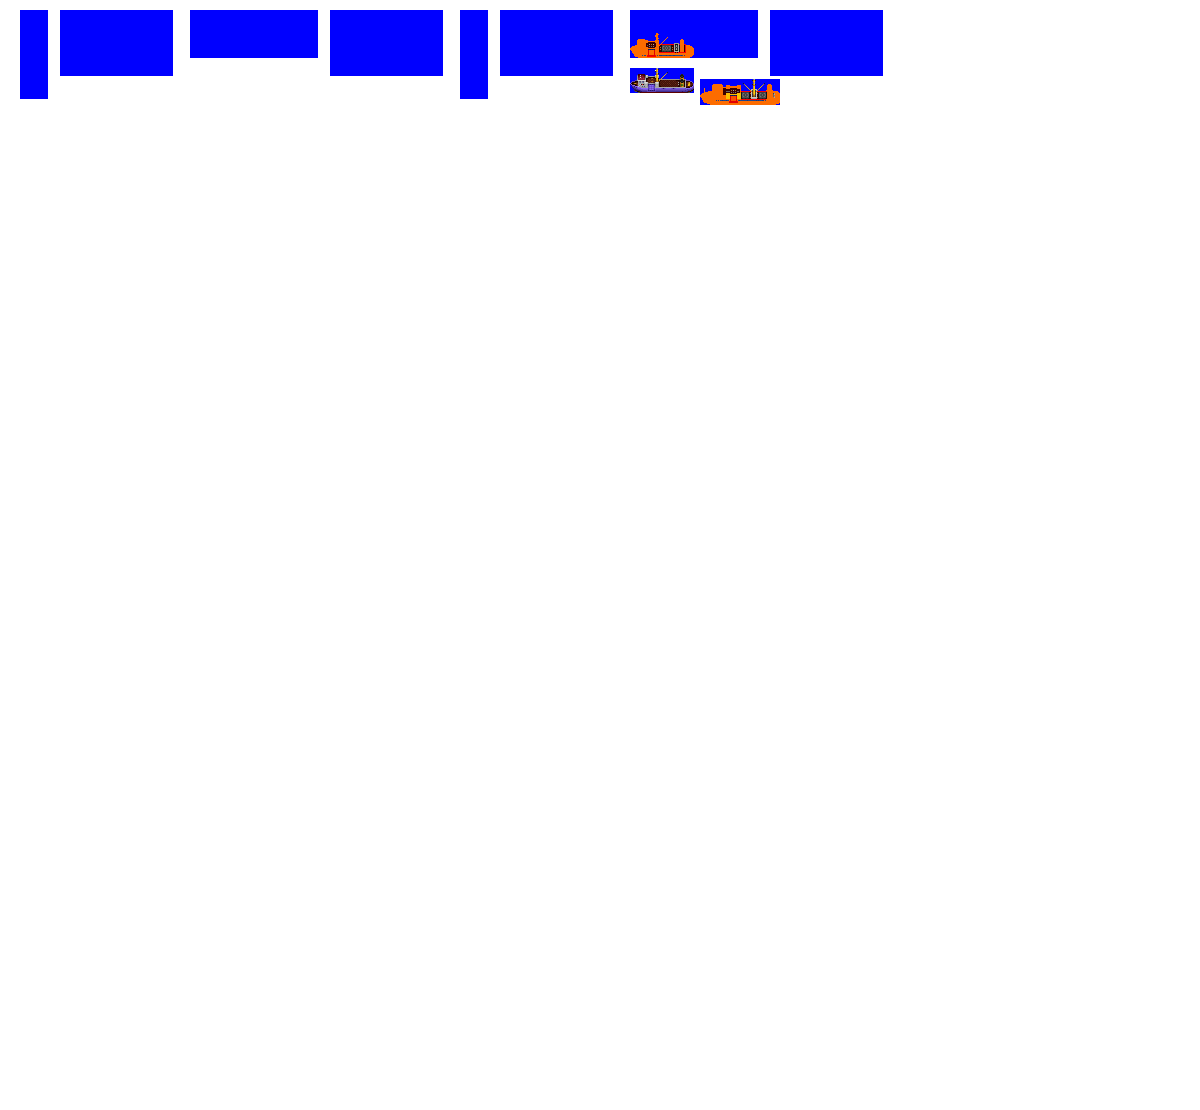
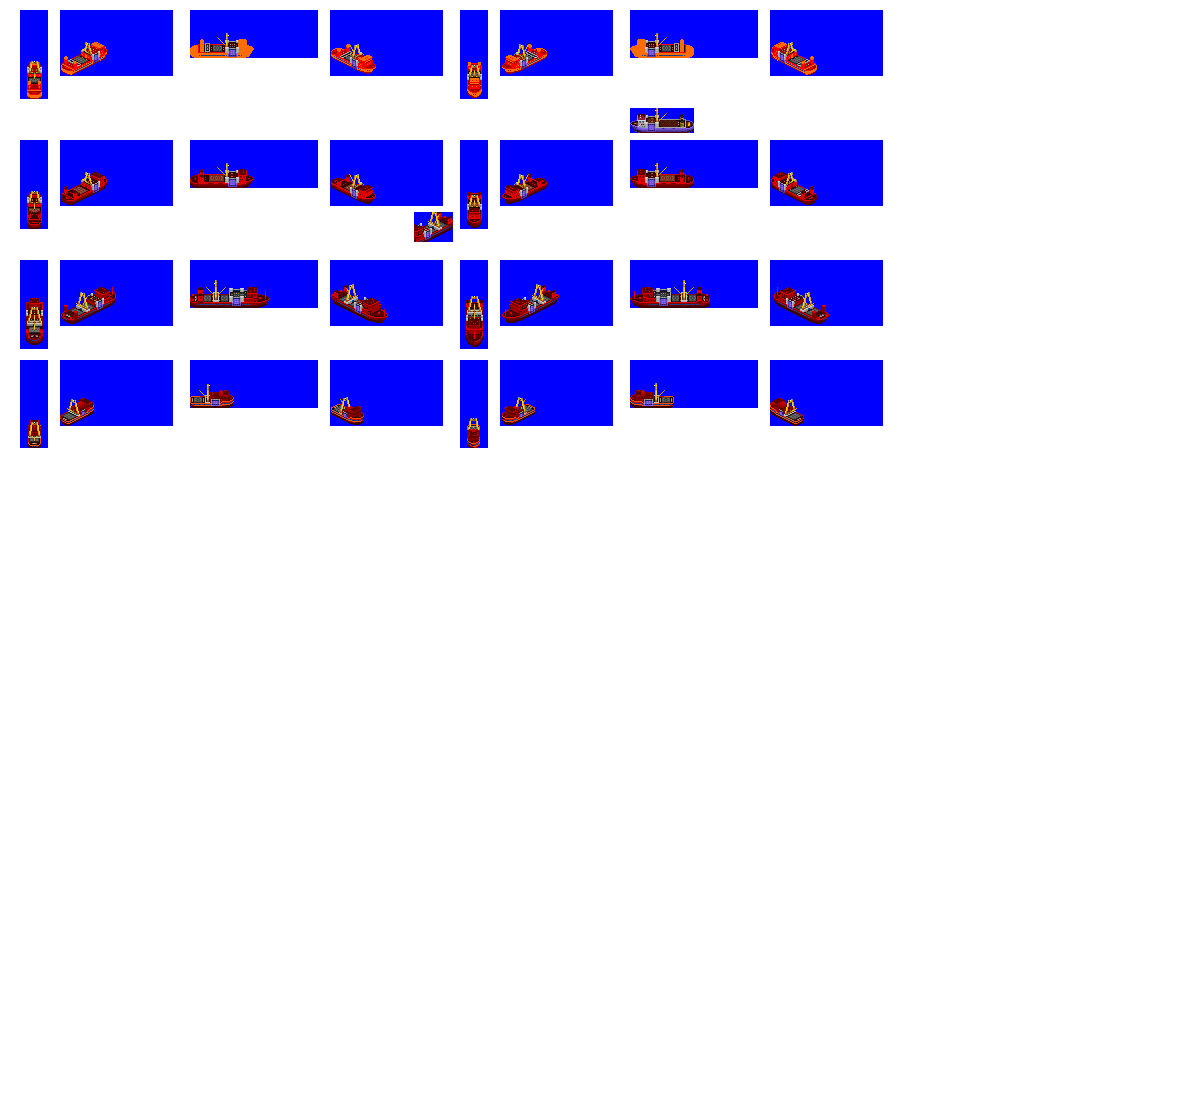
Change: sprites complete for Langara reefer

diff --git a/src/vehicles/reefers.py b/src/vehicles/reefers.py
@@ -19,7 +19,7 @@ def main():
         subtype="B",
         hull="ShipHouseForward",
         effect_type="EFFECT_SPRITE_DIESEL",
-        sprites_complete=False,
+        sprites_complete=True,
     )
 
     ship = Reefer(
